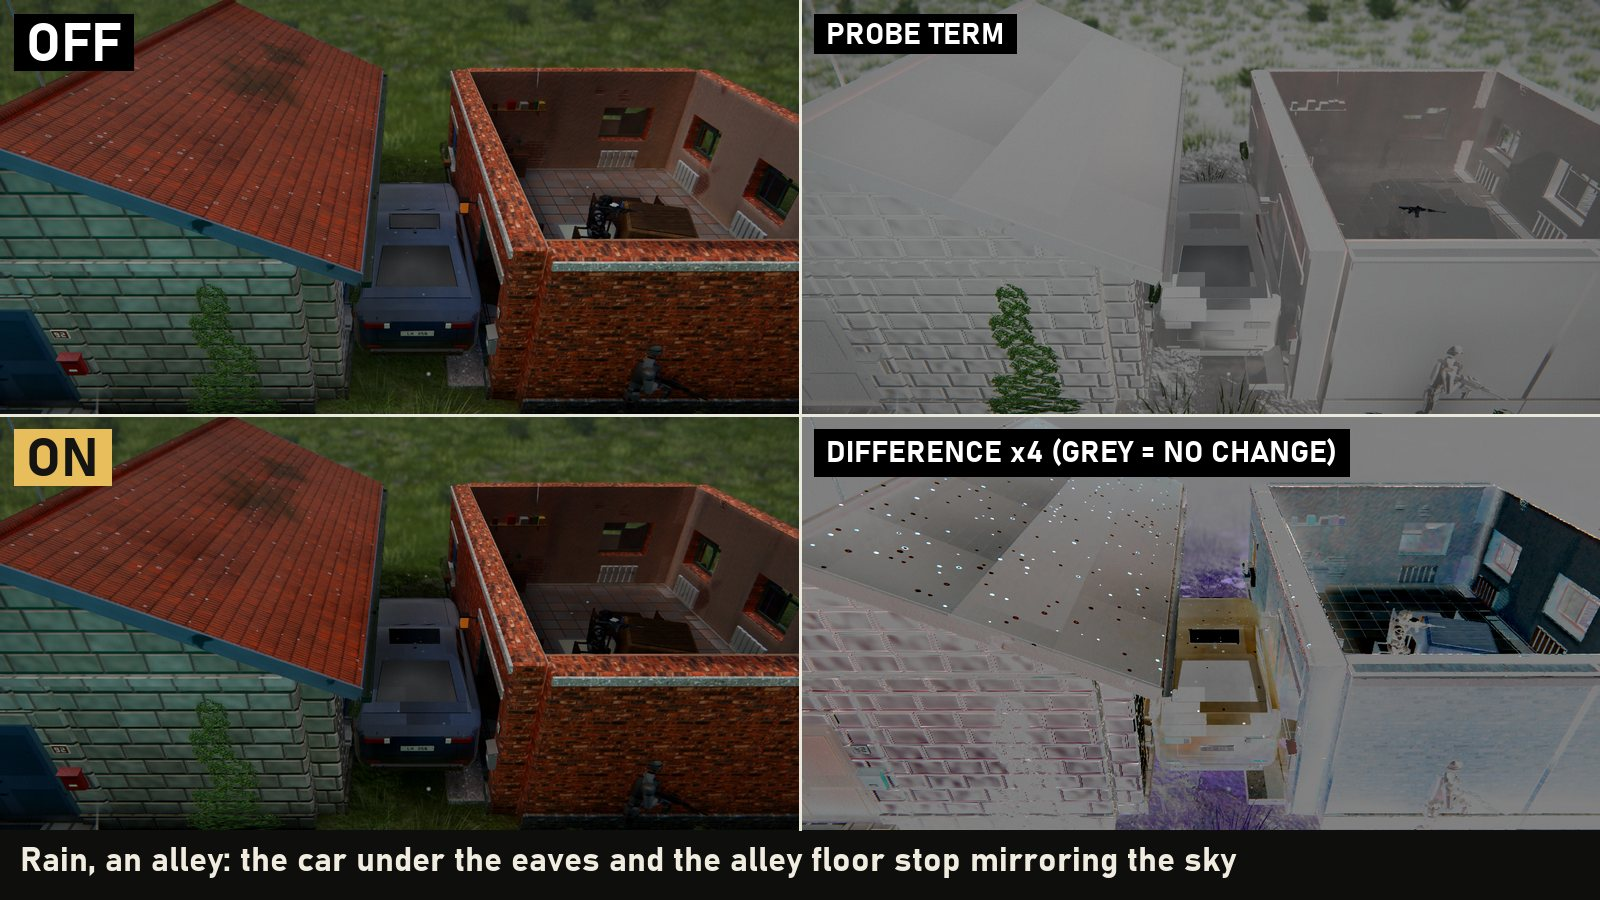
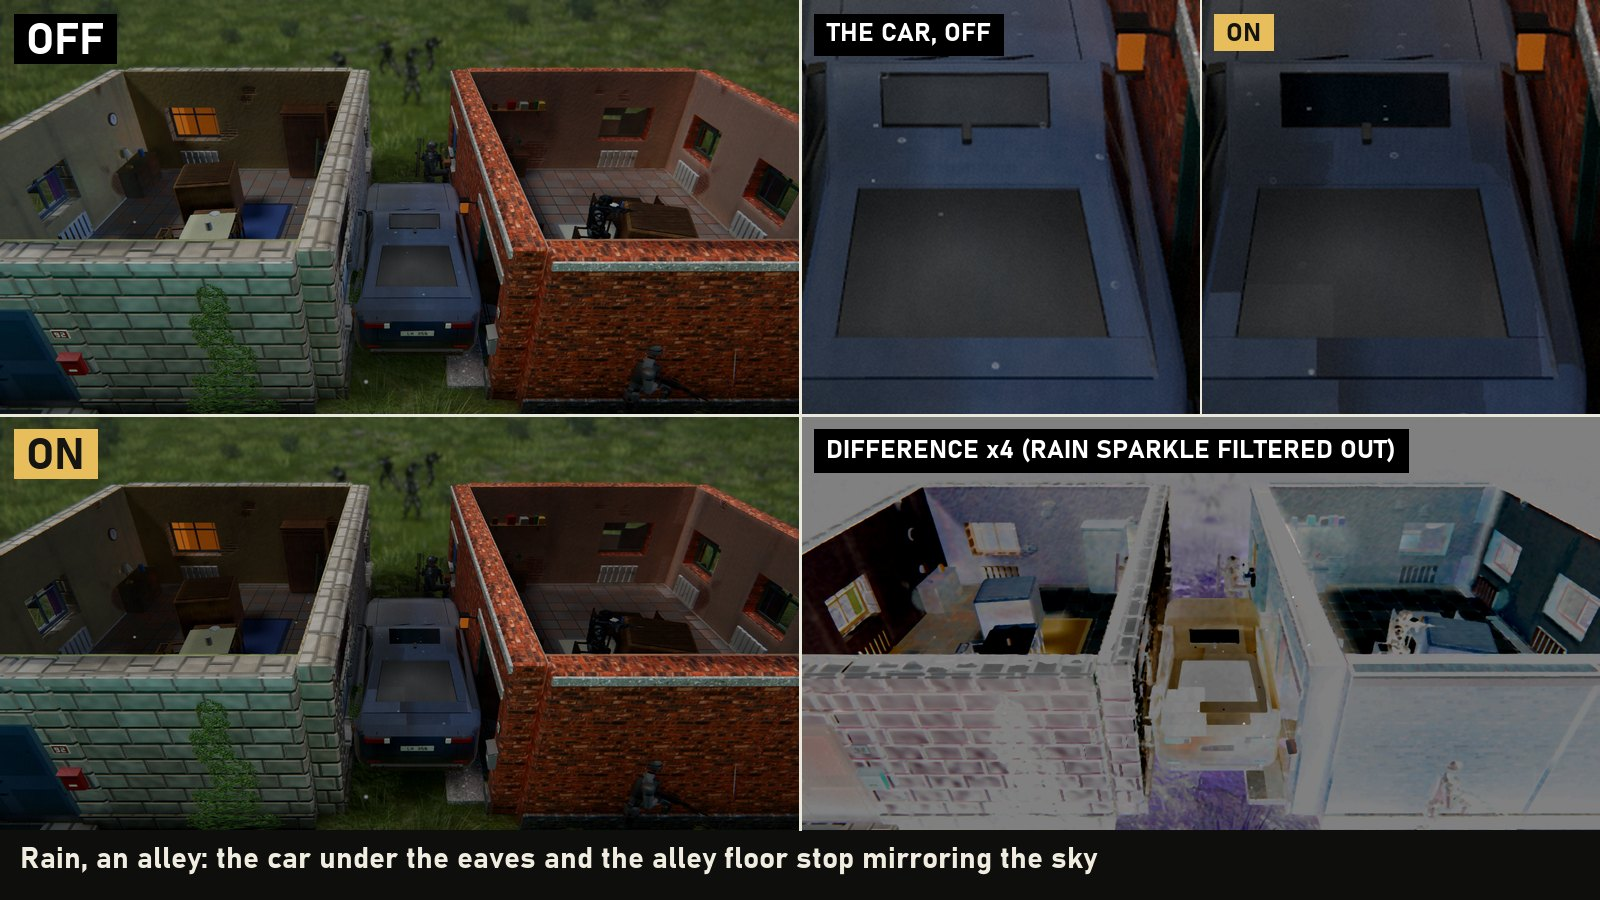
Light probes: clearer reflection and soldier sheets; alley scenario with men in the alley and the sun
The reflection sheet adds a close crop of the car under the eaves (off | on)
and drops the rain's single-pixel sparkle from its difference panel with a
5x5 median: the rain is drawn on its own shader clock, which the frozen
capture can't stop. The soldier sheet now sets three men side by side, probes
off over on: a gunner in a room (0.51), a man in the narrow alley (0.80,
warmer as the blue falls most) and a man out in the sun (0.96).

--scenario=alley puts an AT team in the alley and a rifle squad out in the
sun at its mouth (its expectation counts all fourteen men and checks one is
in the alley and the squad at the mouth).

diff --git a/changelog/unreleased/probe-reflections-and-soldiers.md b/changelog/unreleased/probe-reflections-and-soldiers.md
@@ -5,11 +5,11 @@ kind = "improved"
 
 [[screenshots]]
 file = "reflections.jpg"
-caption = "Rain, an alley between two houses with a car parked under the eaves. Without the light probes the car's roof and glass and the wet alley floor mirror the bright sky; with them they mirror the walls round them, about a third darker on the car, a tenth on the open roofs."
+caption = "Rain, an alley between two houses with a car parked under the eaves, probes off over on. With them the car's roof and windscreen (close up, right) and the wet alley floor mirror the walls round them, not the bright sky: about a third darker on the car, a tenth on the open roofs."
 
 [[screenshots]]
 file = "soldiers.jpg"
-caption = "The same frozen moment, probes off and on: a gunner in the room takes its dim, warm light, about half as bright as he stood before, and a man by the wall outside its shade, a third darker. A man out in the open is unchanged."
+caption = "Three men, probes off over on: a gunner in a room takes its dim, warm light (about half as bright), a man in the narrow alley its shade and the brick's warmth (a fifth darker), and a man out in the sun is unchanged."
 
 [[screenshots]]
 file = "wall-down.jpg"
